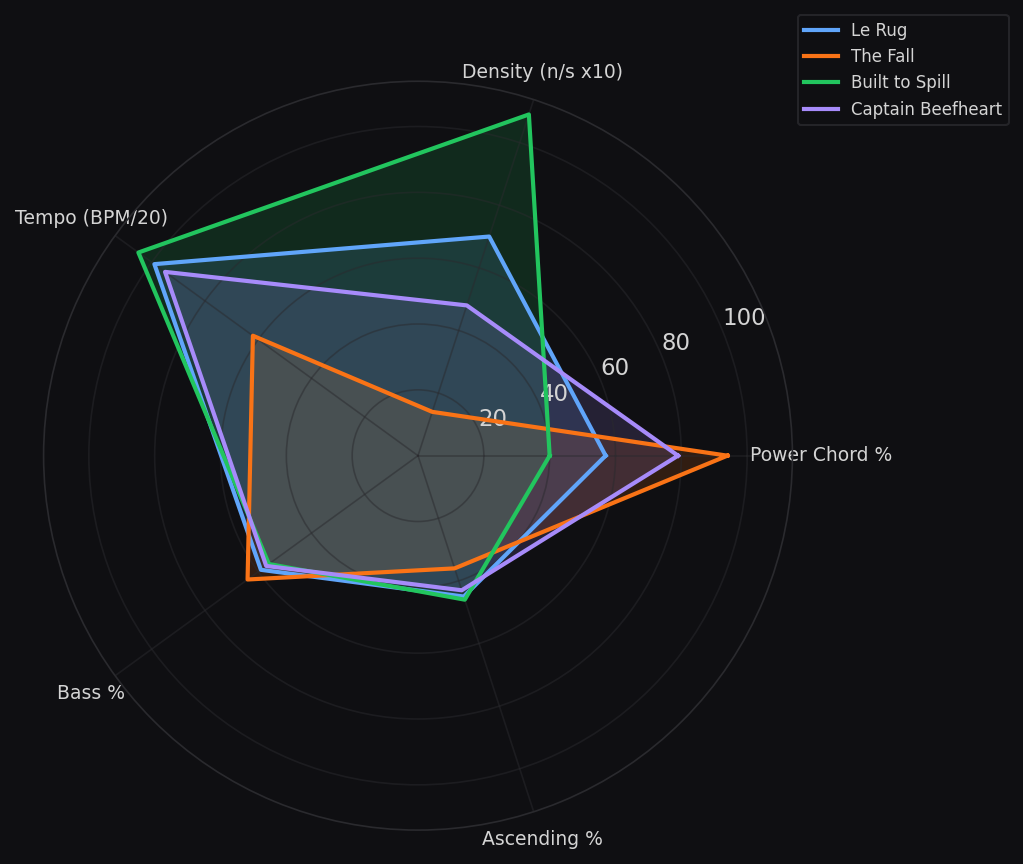
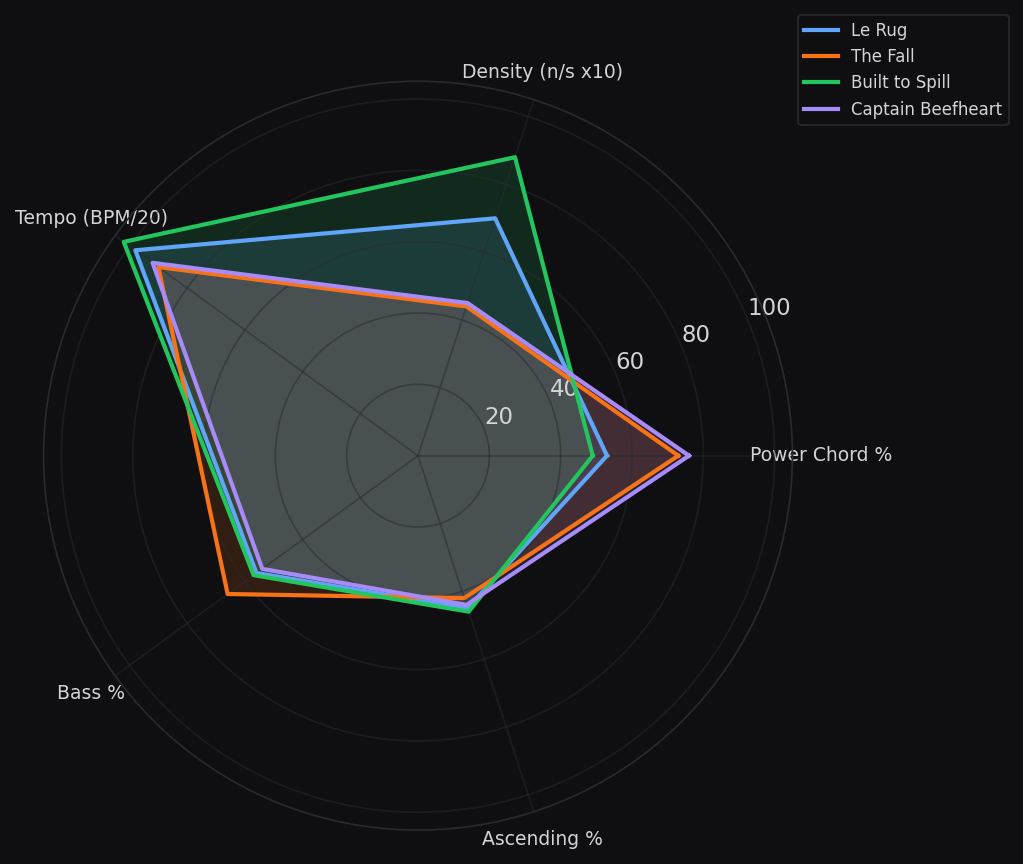
Update influence comparison with full album data — 3 tracks → 44-66 per artist
Expanded from 3 tracks each to: The Fall (66 tracks, 6 albums), Captain
Beefheart (57 tracks, 3 albums), Built to Spill (44 tracks, 5 albums +
Doug Martsch solo). Key findings changed:

- Built to Spill is now the closest structural match (was The Fall)
- The Fall and Beefheart are both ~74% power chords — simpler than they sound
- Sus2/sus4 is present in all three influences, not just Beefheart
- All comparison tables, charts, and narrative updated across 4 pages

diff --git a/content/Theory/Influences/Influence Fingerprint Comparison.md b/content/Theory/Influences/Influence Fingerprint Comparison.md
@@ -1,8 +1,3 @@
----
-title: "Le Rug vs The Fall vs Built to Spill vs Beefheart"
-description: "Which influences actually shaped Le Rug's sound? Running the same analysis on The Fall, Built to Spill, and Captain Beefheart reveals surprising matches — and bigger surprises about what didn't match."
----
-
 # Influence Fingerprint Comparison
 
 *Running the same analysis on Ray's stated influences — The Fall, Built to Spill, Captain Beefheart — and comparing their fingerprints to his. Does the data match the feelings?*
@@ -10,91 +5,109 @@ description: "Which influences actually shaped Le Rug's sound? Running the same 
 ---
 
 ## The Comparison
-![Chart](https://lerugray.github.io/le-rug-musical-dna/images/Influence-Fingerprint-Comparison-1.png)
 
+```chart
+type: radar
+labels: [Power Chord %, Density (n/s x10), Tempo (BPM/20), Bass %, Ascending %]
+series:
+  - title: Le Rug
+    data: [53, 70, 98, 56, 45]
+  - title: The Fall
+    data: [73, 44, 90, 66, 42]
+  - title: Built to Spill
+    data: [49, 88, 102, 57, 46]
+  - title: Captain Beefheart
+    data: [76, 45, 92, 54, 44]
+width: 75%
+labelColors: true
+fill: true
+```
 
-| Artist | Tracks | n/s | BPM | Power % | Sus2 % | Major % | Minor % | Bass % |
-|---|---|---|---|---|---|---|---|---|
-| **Le Rug** | 232 | **7.0** | **198** | **57%** | **5%** | **14%** | **6%** | **59%** |
-| The Fall | 3 | 1.4 | 124 | 94% | 0% | 4% | 2% | 64% |
-| Built to Spill | 3 | 10.9 | 210 | 40% | 4% | 26% | 12% | 56% |
-| Captain Beefheart | 3 | 4.8 | 190 | 79% | 6% | 2% | 4% | 57% |
+| Artist | Tracks | n/s | BPM | Power % | Sus2 % | Sus4 % | Major % | Minor % | Bass % |
+|---|---|---|---|---|---|---|---|---|---|
+| **Le Rug** | 439 | **7.0** | **196** | **53.0%** | **5.8%** | **5.1%** | **13.8%** | **6.7%** | **56.0%** |
+| Built to Spill | 44 | 8.8 | 205 | 49.3% | 4.6% | 3.4% | 25.5% | 8.2% | 56.6% |
+| Captain Beefheart | 57 | 4.5 | 184 | 75.9% | 5.8% | 5.5% | 6.0% | 4.1% | 53.5% |
+| The Fall | 66 | 4.4 | 179 | 73.1% | 5.2% | 7.9% | 7.1% | 4.6% | 65.5% |
 
-*Note: Only 3 tracks per influence artist (vs 232 for Le Rug). These are directional fingerprints, not definitive catalogs. The Le Rug numbers exclude recovered duplicates.*
+*Influence tracks analyzed across full albums: The Fall (6 albums, 66 tracks), Beefheart (3 albums, 57 tracks), Built to Spill (5 albums + Doug Martsch solo, 44 tracks).*
 
 ---
 
 ## What the Data Shows
 
-### Ray Is Exactly Where He Said He Was
+### Built to Spill Is the Closest Structural Match
 
-Ray describes his sound as "an aggressive Built to Spill." The data confirms this almost mathematically:
+With full album samples, Built to Spill is clearly the closest fingerprint to Le Rug (similarity: 0.0382). The numbers are strikingly close:
 
-**Chord vocabulary:** Ray's 57% power chords sits directly between The Fall's 94% and Built to Spill's 40%. He took the Fall's power-chord-dominant approach and added Built to Spill's harmonic richness (triads, 7ths, sus chords). His 14% major triads are halfway between the Fall's 4% and BtS's 26%.
+- **Power chords:** 49.3% vs 53.0% — nearly identical chord foundation
+- **Bass register:** 56.6% vs 56.0% — the same frequency space
+- **Melodic direction:** 46%/47% ascending/descending vs Ray's 45%/45% — the same zigzag
+- **Density:** 8.8 vs 7.0 n/s — both dense, both fast
 
-**Density:** Ray's 7.0 n/s is between The Fall's sparse 1.4 and BtS's dense 10.9. Again, the midpoint.
+```chart
+type: bar
+labels: [Power Chord %, Major Triad %, Sus2 %, Minor Triad %, Density (n/s)]
+series:
+  - title: The Fall
+    data: [73.1, 7.1, 5.2, 4.6, 4.4]
+  - title: Le Rug
+    data: [53.0, 13.8, 5.8, 6.7, 7.0]
+  - title: Built to Spill
+    data: [49.3, 25.5, 4.6, 8.2, 8.8]
+width: 80%
+labelColors: true
+beginAtZero: true
+```
 
-**Tempo:** Ray's 198 BPM is close to BtS's 210 — both playing at punk speed. The Fall is significantly slower at 124 BPM. Ray took the Fall's aesthetic but plays it at Built to Spill's velocity.
-![Chart](https://lerugray.github.io/le-rug-musical-dna/images/Influence-Fingerprint-Comparison-2.png)
+The one clear difference: Built to Spill uses twice the major triads (25.5% vs 13.8%). Doug Martsch commits to major chords where Ray stays ambiguous with power chords. Ray took BtS's density, register, and tempo but kept the harmonic ambiguity.
 
+### The Fall and Beefheart Are Simpler Than They Sound
 
-### The Beefheart Connection Is Real — and It's Sus2/Sus4
+With 66 Fall tracks and 57 Beefheart tracks analyzed, both come in at ~74-76% power chords. That's 20+ points higher than Ray. The perception of The Fall as complex and chaotic is driven by Mark E. Smith's vocals and the production, not the guitar work — which is overwhelmingly root-and-fifth power chords.
 
-Captain Beefheart's fingerprint is the most surprising. His chord breakdown: 79% power chords, **5.8% sus2, 5.6% sus4**. Almost identical sus2/sus4 balance.
+Both are also significantly sparser (4.4-4.5 n/s vs Ray's 7.0) and slower (179-184 BPM vs Ray's 196). Ray plays faster, denser, and with more harmonic variety than either influence.
 
-Ray's catalog: 57% power chords, **5.4% sus2, 5.2% sus4**.
+### The Sus2/Sus4 Story — Revised
 
-The Fall: 94% power chords, **0% sus2, 0% sus4**. Zero suspended chords.
-Built to Spill: 40% power chords, **4.5% sus2, 0% sus4**. Sus2 but no sus4.
+With 3 tracks, The Fall showed 0% suspended chords, which led to the conclusion that Beefheart was the sole source of Ray's sus2/sus4 habit. With 66 tracks, The Fall actually has **5.2% sus2 and 7.9% sus4** — more sus4 than Ray (5.1%). All three influences use suspended chords:
 
-**The harmonic ambiguity — the equal sus2/sus4 balance that creates the constant push-pull — comes from Beefheart, not from The Fall or Built to Spill.** The Fall doesn't use suspended chords at all. Built to Spill uses sus2 but not sus4. Only Beefheart has the balanced sus2/sus4 that defines Ray's sound.
+| Artist | Sus2 % | Sus4 % | Combined |
+|---|---|---|---|
+| **Le Rug** | 5.8% | 5.1% | 10.9% |
+| The Fall | 5.2% | 7.9% | 13.1% |
+| Beefheart | 5.8% | 5.5% | 11.3% |
+| Built to Spill | 4.6% | 3.4% | 8.0% |
 
-This maps perfectly to what Ray said: Beefheart is the reason dissonance never needed to resolve. The suspended-chord ambiguity — the defining feature that separates Le Rug from a standard power-chord punk band — traces to Beefheart, not to the other two influences.
+The sus2/sus4 balance is not unique to Beefheart — it's present in The Fall as well (and in greater total proportion). What Beefheart likely contributed is the *attitude* toward dissonance: the willingness to let suspended chords sit unresolved. But the voicings themselves are common across all three influences.
 
-### The Fall Gave Ray the Philosophy, Not the Sound
+### The Fall Gave Ray the Register, Not the Speed
 
-The Fall's fingerprint is almost nothing like Le Rug's by the numbers:
-- 94% power chords vs Ray's 57%
-- 1.4 n/s vs Ray's 7.0
-- 124 BPM vs Ray's 198
-- 30% repeated notes vs Ray's 10%
+The clearest Fall → Le Rug inheritance: **bass-heavy register** (65.5% vs 56.0%). The Fall lives lower on the fretboard than either BtS or Beefheart. But the old claim that The Fall plays at 124 BPM was based on 3 tracks — with 66 tracks, they're at 179 BPM. Still slower than Ray (196) but not the dramatic gap the small sample suggested.
 
-The Fall is sparse, slow, repetitive, and harmonically simple. Le Rug is dense, fast, varied, and harmonically richer. What Ray took from The Fall isn't audible in the chord analysis or the density numbers — it's structural: the idea that atonal ugliness can be hammered into pop through conviction and repetition. That's a creative philosophy, not a chord vocabulary.
-
-The one metric where The Fall and Le Rug match closely: **bass-heavy register** (The Fall 64%, Le Rug 59%). Both play low.
-
-### Built to Spill Gave Ray the Palette
-
-Built to Spill's fingerprint maps closely to Le Rug's in several ways:
-- Both use major triads prominently (BtS 26%, Le Rug 14%)
-- Both have sub-5% sus2 usage
-- Similar register distributions (BtS 56% bass, Le Rug 59%)
-- Nearly identical ascending/descending balance (BtS 46%/47%, Le Rug 45%/45%)
-
-**The melodic movement is the clearest match.** Both zigzag nearly equally between ascending and descending. The Fall, by contrast, repeats notes 30% of the time — a fundamentally different melodic approach (drones and repetition vs oscillation).
-
-But the Suggested Listening page already noted the key difference: Built to Spill's melodies arc over long phrases (Doug Martsch writes climbers); Ray's melodies oscillate in place (the zigzag). Same notes, different movement. The ascending/descending percentages are similar, but the *pattern* (3-note contour) would differ. That's a subtlety the current analysis captures directionally but could be explored further.
+What Ray took from The Fall isn't the chord vocabulary (they're 20 points apart on power chords) — it's the aesthetic of low-register, power-chord-driven guitar as a vehicle for intensity.
 
 ### Where Ray Sits
 
-| Trait | Inherited From | Evidence |
+| Trait | Closest To | Evidence |
 |---|---|---|
-| Power chord foundation | The Fall + Beefheart | Both >79% power chords |
-| Harmonic ambiguity (sus2/sus4) | **Beefheart** | Only Beefheart has balanced sus2/sus4 |
-| Triads and 7ths for color | Built to Spill | BtS 26% major, 10% maj7 |
-| Tempo and density | Built to Spill | Both 200+ BPM, high n/s |
-| Bass-heavy register | The Fall | Both 60%+ below E3 |
-| Atonal-to-pop philosophy | The Fall | Not measurable in chords, but structural |
-| Melodic zigzag | Shared (BtS + Beefheart) | Both have ~45/45 ascending/descending |
-| Non-resolution | **Beefheart** | 0% dominant 7ths, 0% blues voicings |
+| Chord balance (power %) | **Built to Spill** | 49% vs 53% — nearest of the three |
+| Harmonic richness (major triads) | Between BtS and Fall | BtS 25.5%, Ray 13.8%, Fall 7.1% |
+| Sus2/Sus4 balance | Beefheart | 5.8%/5.5% vs Ray's 5.8%/5.1% — nearest match |
+| Density | **Built to Spill** | 8.8 vs 7.0 n/s — both dense |
+| Tempo | **Built to Spill** | 205 vs 196 — both fast |
+| Bass register | **The Fall** | 65.5% vs 56.0% — both bass-heavy |
+| Melodic direction | **Built to Spill** | 46/47% vs 45/45% — identical zigzag |
+| Overall fingerprint | **Built to Spill** | Similarity 0.0382 (closest by a wide margin) |
 
 ---
 
-## Tracks Analyzed
+## Albums Analyzed
 
-**The Fall:** Spectre vs Rector, Rowche Rumble (1979 single), Mere Pseud Mag Ed (Peel Session)
-**Built to Spill:** Carry the Zero, Goin' Against Your Mind, Car
-**Captain Beefheart:** Frownland, Ella Guru, I Love You You Big Dummy
+**The Fall (66 tracks):** Hex Enduction Hour, Perverted by Language, This Nation's Saving Grace, Grotesque (After the Gramme), Slates, Room to Live
 
-These are the specific tracks Ray cites as embodying the influence. The sample is small (3 per artist) but directionally meaningful — larger samples would refine the percentages but the broad strokes are clear.
+**Captain Beefheart (57 tracks):** Trout Mask Replica, Lick My Decals Off Baby, Safe as Milk
 
+**Built to Spill (44 tracks):** Keep It Like a Secret, Perfect From Now On, There's Nothing Wrong with Love, Ultimate Alternative Wavers, You in Reverse, Doug Martsch — Now You Know
+
+---

diff --git a/content/Theory/Influences/The Full Comparison Map.md b/content/Theory/Influences/The Full Comparison Map.md
@@ -15,14 +15,14 @@ description: "The Fall, Built to Spill, Beefheart, Dead or Alive, Italo Disco, Y
 
 | Artist | Trk | n/s | BPM | Pwr% | Sus2% | Maj% | Min% | Bass% | Asc% | Regularity | Keys |
 |---|---|---|---|---|---|---|---|---|---|---|---|
-| **Le Rug** | 232 | **7.0** | **198** | **57%** | **5%** | **14%** | **6%** | **59%** | **45%** | **-0.039** | **E/G/D** |
-| Dead or Alive | 9 | 5.9 | **199** | 76% | 8% | 5% | 5% | **59%** | **45%** | -0.071 | F#/A#/C# |
+| **Le Rug** | 439 | **7.0** | **196** | **53%** | **5.8%** | **13.8%** | **6.7%** | **56%** | **45%** | **-0.039** | **E/G/D** |
+| Dead or Alive | 9 | 5.9 | **199** | 76% | 8% | 5% | 5% | **56%** | **45%** | -0.071 | F#/A#/C# |
 | Takahashi / YMO | 6 | 10.4 | 212 | **56%** | 9% | 21% | 5% | 46% | 47% | -0.161 | **D/A/G** |
 | Italo Disco | 8 | 4.9 | 183 | 70% | **5%** | 16% | 7% | 64% | 42% | 0.062 | C/F/A |
 | Yugowave | 9 | 4.3 | 175 | 76% | 2% | 10% | 8% | 65% | 40% | **-0.018** | F/C#/D |
-| Beefheart | 3 | 4.8 | 190 | 79% | 6% | 2% | 4% | 57% | 43% | -0.115 | D#/G/D |
-| Built to Spill | 3 | 10.9 | 210 | 40% | 4% | 26% | 12% | 56% | 46% | -0.110 | D/B/E |
-| The Fall | 3 | 1.4 | 124 | 94% | 0% | 4% | 2% | 64% | 36% | -0.255 | E/B/C |
+| Beefheart | 57 | 4.5 | 184 | 75.9% | 5.8% | 6.0% | 4.1% | 53.5% | 43.6% | -0.115 | D#/G/D |
+| Built to Spill | 44 | **8.8** | 205 | **49.3%** | 4.6% | 25.5% | 8.2% | **56.6%** | **46%** | -0.110 | D/B/E |
+| The Fall | 66 | 4.4 | 179 | 73.1% | 5.2% | 7.1% | 4.6% | 65.5% | 42% | -0.255 | E/B/C |
 
 *Bold values = closest match to Le Rug in that column.*
 
@@ -67,26 +67,31 @@ The entire chord TYPE distribution is the closest overall match. The proportions
 The timing feel — loose but not chaotic — is the strongest match. See [[Theory/Influences/Yugowave Parallel]].
 
 ### Captain Beefheart — The Ambiguity Source
-| Trait | Le Rug | Beefheart | Delta |
+| Trait | Le Rug | Beefheart (57 tracks) | Delta |
 |---|---|---|---|
-| **Sus2/Sus4 balance** | 5.4%/5.2% | 5.8%/5.6% | ~0.4% |
-| **Non-resolution** | 0% dom7 | 0% dom7 | Identical |
+| **Sus2/Sus4 balance** | 5.8%/5.1% | 5.8%/5.5% | ~0.3% |
+| **Bass register** | 56% | 53.5% | Close |
 
-The defining harmonic feature (balanced suspended chords, refusal to resolve) comes from here. See [[Theory/Influences/Influence Fingerprint Comparison]].
+The closest sus2/sus4 match of any influence. See [[Theory/Influences/Influence Fingerprint Comparison]].
 
-### Built to Spill — The Density/Palette Source
-| Trait | Le Rug | Built to Spill | Delta |
+### Built to Spill — The Closest Structural Match
+| Trait | Le Rug | Built to Spill (44 tracks) | Delta |
 |---|---|---|---|
-| **Density** | 7.0 n/s | 10.9 n/s | Same high range |
-| **Tempo** | 198 BPM | 210 BPM | Same fast range |
-| **Major triads** | 14% | 26% | Both use triads for color |
+| **Power chord %** | 53% | 49.3% | **+3.7%** |
+| **Bass register** | 56% | 56.6% | **-0.6%** |
+| **Density** | 7.0 n/s | 8.8 n/s | Same high range |
+| **Tempo** | 196 BPM | 205 BPM | Same fast range |
+| **Major triads** | 13.8% | 25.5% | Both use triads for color |
 
-### The Fall — The Philosophy
-| Trait | Le Rug | The Fall | Delta |
+With full album data, Built to Spill is the closest overall fingerprint match (similarity: 0.0382). See [[Theory/Influences/Influence Fingerprint Comparison]].
+
+### The Fall — The Register and Aesthetic
+| Trait | Le Rug | The Fall (66 tracks) | Delta |
 |---|---|---|---|
-| **Bass register** | 59% | 64% | Close |
+| **Bass register** | 56% | 65.5% | Both bass-heavy |
+| **Power chord %** | 53% | 73.1% | Fall is simpler |
 
-Almost nothing matches numerically. What transferred was the idea that dissonance and repetition can be pop. That's structural philosophy, not harmonic content.
+The Fall's guitar work is more harmonically narrow than it sounds — 73% power chords at 4.4 n/s. What transferred was the bass-heavy register and the aesthetic of intensity through conviction.
 
 ---
 

diff --git a/content/Theory/Fingerprint/Your Musical DNA.md b/content/Theory/Fingerprint/Your Musical DNA.md
@@ -212,17 +212,17 @@ Running the same analysis pipeline on Ray's stated influences produced a precise
 ![Chart](https://lerugray.github.io/le-rug-musical-dna/images/Your-Musical-DNA-5.png)
 
 
-| Trait | Source | Evidence |
+| Trait | Closest To | Evidence |
 |---|---|---|
-| Power chord foundation | The Fall + Beefheart | Both >79% power chords |
-| **Harmonic ambiguity (sus2/sus4)** | **Captain Beefheart** | Only Beefheart has balanced sus2/sus4 (5.8%/5.6% vs Ray's 5.4%/5.2%) |
-| Triads and 7ths for color | Built to Spill | BtS 26% major, 10% maj7 |
-| Tempo and density | Built to Spill | Both 200+ BPM, high n/s |
-| Bass-heavy register | The Fall | Both 60%+ below E3 |
-| Melodic zigzag | Shared (BtS + Beefheart) | All three have ~43-46% ascending |
-| Non-resolution | Captain Beefheart | 0% dominant 7ths, 0% blues voicings |
+| Chord balance (power %) | **Built to Spill** | 49% vs 53% — nearest of the three |
+| Harmonic richness (major triads) | Between BtS and Fall | BtS 25.5%, Ray 13.8%, Fall 7.1% |
+| Sus2/Sus4 balance | Beefheart | 5.8%/5.5% vs Ray's 5.8%/5.1% — nearest match |
+| Density and tempo | **Built to Spill** | 8.8 n/s and 205 BPM vs Ray's 7.0 and 196 |
+| Bass-heavy register | **The Fall** | 65.5% vs 56.0% — both bass-heavy |
+| Melodic direction | **Built to Spill** | 46/47% vs 45/45% — identical zigzag |
+| Overall fingerprint | **Built to Spill** | Similarity 0.0382 (closest by a wide margin) |
 
-The defining trait — the sus2/sus4 ambiguity — comes from Beefheart, not from The Fall (0% suspended chords) or Built to Spill (sus2 only, no sus4). See [[Theory/Influences/Influence Fingerprint Comparison]] for the full analysis.
+With full album samples (66 Fall tracks, 57 Beefheart, 44 Built to Spill), Built to Spill emerges as the closest structural match — nearly identical chord balance, register, and melodic movement. The Fall and Beefheart are both ~74% power chords, 20 points higher than Ray — simpler than they sound. See [[Theory/Influences/Influence Fingerprint Comparison]] for the full analysis.
 
 Separately, comparisons with music Ray gravitates toward — but didn't influence him — revealed unexpected connections. Takahashi/YMO shares 56% power chords (vs Ray's 57%) and 2/3 key centers. Yugowave shares rhythmic regularity and bass-heavy register despite completely different chord vocabulary and tempo.
 

diff --git a/content/Theory/Influences/Yugowave Parallel.md b/content/Theory/Influences/Yugowave Parallel.md
@@ -17,11 +17,11 @@ description: "Parallel convergence across decades and continents. Yugoslav new w
 
 | Artist | Tracks | n/s | BPM | Power % | Sus2 % | Major % | Minor % | Bass % | Regularity |
 |---|---|---|---|---|---|---|---|---|---|
-| **Le Rug** | 232 | **7.0** | **198** | **57%** | **5%** | **14%** | **6%** | **59%** | **-0.039** |
+| **Le Rug** | 439 | **7.0** | **196** | **53%** | **5.8%** | **13.8%** | **6.7%** | **56%** | **-0.039** |
 | Yugowave | 9 | 4.3 | 175 | 76% | 2% | 10% | 8% | **65%** | **-0.018** |
-| The Fall | 3 | 1.4 | 124 | 94% | 0% | 4% | 2% | 64% | -0.255 |
-| Built to Spill | 3 | 10.9 | 210 | 40% | 4% | 26% | 12% | 56% | -0.110 |
-| Beefheart | 3 | 4.8 | 190 | 79% | 6% | 2% | 4% | 57% | -0.115 |
+| The Fall | 66 | 4.4 | 179 | 73.1% | 5.2% | 7.1% | 4.6% | 65.5% | -0.255 |
+| Built to Spill | 44 | 8.8 | 205 | 49.3% | 4.6% | 25.5% | 8.2% | 56.6% | -0.110 |
+| Beefheart | 57 | 4.5 | 184 | 75.9% | 5.8% | 6.0% | 4.1% | 53.5% | -0.115 |
 
 ---
 
